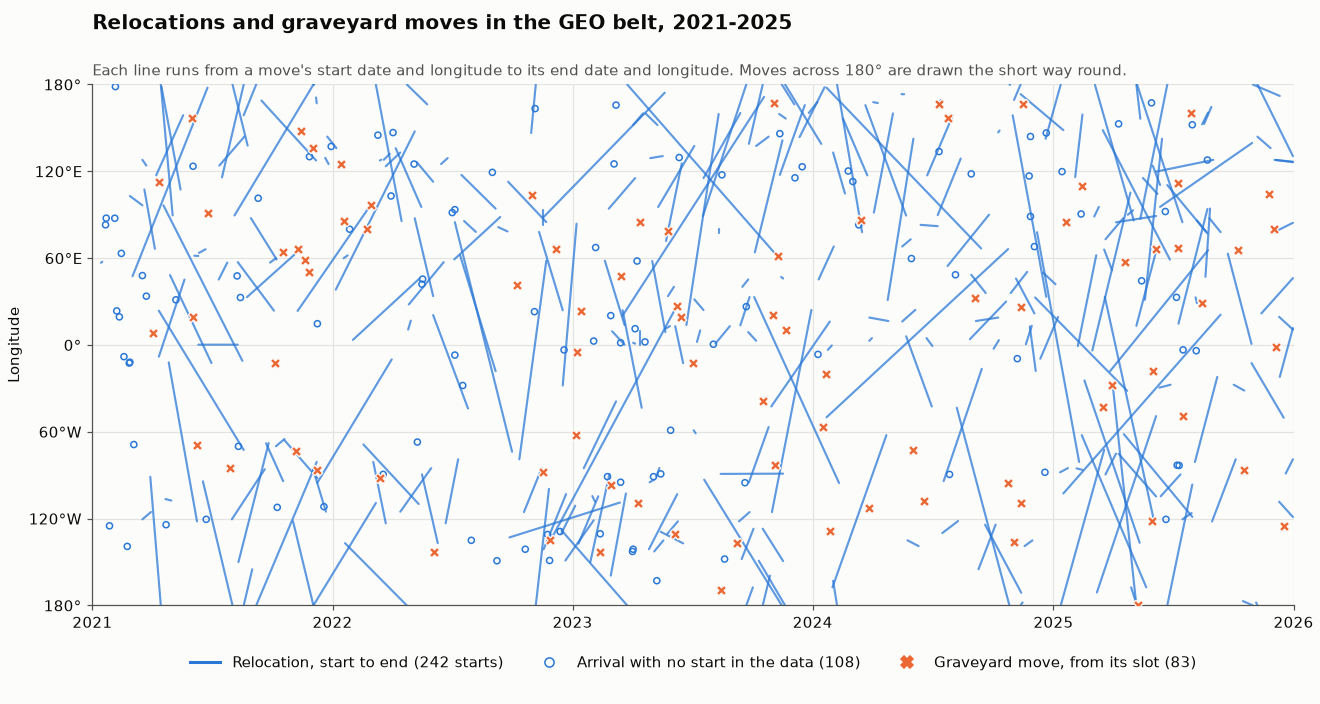
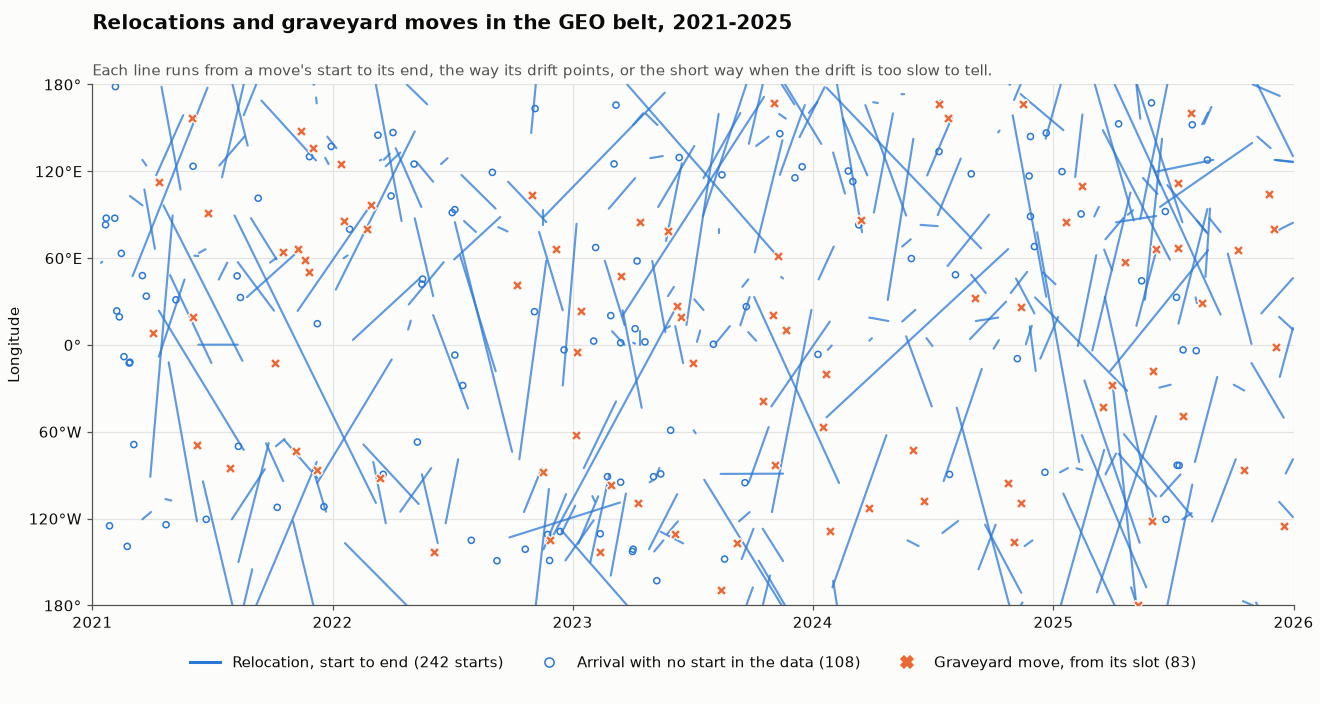
Draw relocations the way they drift: three long-way moves now go the right way round
The relocation chart drew every move the short way between its end longitudes. A move goes the
long way now when the drift rate implied by its start's size points that way and covers more than
180 degrees over the move; otherwise it stays the short way, so a size sign skewed by a later drift
cannot flip a short move. This changes 27632 (both moves) and 41937 (2025).

Fixes #77

Changed region(s): [[0.2795, 0.0938, 0.8386, 0.125]]

diff --git a/tests/test_relocation_chart.py b/tests/test_relocation_chart.py
@@ -8,26 +8,42 @@ chart = importlib.util.module_from_spec(_spec)
 _spec.loader.exec_module(chart)
 
 
-def row(norad, kind, day, lon_before, lon_after):
-    return {"norad_id": norad, "event_type": kind, "date": day, "lon_before": lon_before, "lon_after": lon_after}
+def row(norad, kind, day, lon_before, lon_after, size="0.0"):
+    return {"norad_id": norad, "event_type": kind, "date": day, "lon_before": lon_before, "lon_after": lon_after,
+            "size": size}
 
 
 def test_a_move_inside_the_chart_is_one_line():
-    assert chart.pieces(date(2022, 1, 1), 10.0, date(2022, 1, 11), 20.0) == [
+    assert chart.pieces(date(2022, 1, 1), 10.0, date(2022, 1, 11), 10.0) == [
         ((date(2022, 1, 1), date(2022, 1, 11)), (10.0, 20.0))]
 
 
-def test_a_move_across_180_is_split_at_the_edge_and_goes_the_short_way():
-    (first, second) = chart.pieces(date(2022, 1, 1), 170.0, date(2022, 1, 21), -170.0)
+def test_a_move_across_180_is_split_at_the_edge():
+    (first, second) = chart.pieces(date(2022, 1, 1), 170.0, date(2022, 1, 21), 20.0)
     assert first == ((date(2022, 1, 1), date(2022, 1, 11)), (170.0, 180.0))
     assert second == ((date(2022, 1, 11), date(2022, 1, 21)), (-180.0, -170.0))
-    (first, second) = chart.pieces(date(2022, 1, 1), -175.0, date(2022, 1, 11), 175.0)
+    (first, second) = chart.pieces(date(2022, 1, 1), -175.0, date(2022, 1, 11), -10.0)
     assert first[1] == (-175.0, -180.0) and second[1] == (180.0, 175.0)
+    (first, second) = chart.pieces(date(2022, 1, 1), -100.0, date(2022, 8, 29), -240.0)
+    assert first == ((date(2022, 1, 1), date(2022, 3, 22)), (-100.0, -180.0))
+    assert second == ((date(2022, 3, 22), date(2022, 8, 29)), (180.0, 20.0))
+
+
+def test_a_move_goes_the_way_its_drift_points_when_the_drift_covers_more_than_half_the_belt():
+    assert round(chart.arc(89.5, -109.2, 73.6, 215), 6) == -198.7
+    assert round(chart.arc(-91.1, 89.5, -591.0, 34), 6) == 180.6
+    assert round(chart.arc(-102.6, 20.9, 79.7, 239), 6) == -236.5
+
+
+def test_a_drift_too_slow_to_reach_the_long_way_keeps_the_short_way():
+    assert round(chart.arc(119.4, 127.5, 4.5, 87), 6) == 8.1
+    assert chart.arc(10.0, 30.0, 0.0, 20) == 20.0
+    assert round(chart.arc(89.5, -109.2, -73.6, 215), 6) == 161.3
 
 
 def test_moves_pair_starts_with_ends_and_keep_unpaired_starts_and_arrivals():
     rows = [
-        row("1", "relocation_start", "2022-01-01", "10.0", "30.0"),
+        row("1", "relocation_start", "2022-01-01", "10.0", "30.0", "-80.0"),
         row("1", "relocation_end", "2022-01-21", "28.0", "30.0"),
         row("2", "relocation_end", "2023-05-01", "", "-60.0"),
         row("3", "relocation_start", "2022-06-01", "100.0", "140.0"),
@@ -42,3 +58,12 @@ def test_moves_pair_starts_with_ends_and_keep_unpaired_starts_and_arrivals():
     ]
     assert arrivals == [(date(2023, 5, 1), -60.0)]
     assert graveyards == [(date(2022, 9, 1), 120.0)]
+
+
+def test_moves_draw_a_westward_drift_the_long_way():
+    rows = [
+        row("5", "relocation_start", "2021-08-05", "90.0", "-110.0", "73.6"),
+        row("5", "relocation_end", "2022-03-08", "-108.0", "-110.0"),
+    ]
+    segments, _, _ = chart.moves(rows)
+    assert segments == [((date(2021, 8, 5), date(2022, 3, 8)), (90.0, -110.0))]

diff --git a/tools/relocation_chart.py b/tools/relocation_chart.py
@@ -1,6 +1,6 @@
 # Draw every relocation and graveyard move in the belt's state-change list as date against longitude.
-# A move is a line from its start to its end; one that crosses 180 deg is drawn the short way round,
-# split at the chart edge.
+# A move is a line from its start to its end, drawn the way its start's drift rate points when that
+# rate covers more than half the belt over the move, otherwise the short way; split at the chart edge.
 
 from __future__ import annotations
 
@@ -22,14 +22,22 @@ OUT = ROOT / "docs" / "belt_relocations.png"
 DATA_END = date(2025, 12, 31)
 SURFACE, INK, MUTED, GRID = "#fcfcfb", "#0b0b0b", "#52514e", "#e4e3df"
 MOVE, GRAVEYARD = "#2a78d6", "#eb6834"
+DRIFT_DEG_PER_DAY_PER_KM = 1.5 * 360.9856 / 42164.17
 
 
 def wrap180(x: float) -> float:
     return (x + 180.0) % 360.0 - 180.0
 
 
-def pieces(d0: date, lon0: float, d1: date, lon1: float) -> list[tuple[tuple[date, date], tuple[float, float]]]:
-    delta = wrap180(lon1 - lon0)
+def arc(lon0: float, lon1: float, size_km: float, days: int) -> float:
+    short = wrap180(lon1 - lon0)
+    drift = -DRIFT_DEG_PER_DAY_PER_KM * size_km
+    if drift * short < 0 and abs(drift) * days > 180.0:
+        return short - 360.0 if short > 0 else short + 360.0
+    return short
+
+
+def pieces(d0: date, lon0: float, d1: date, delta: float) -> list[tuple[tuple[date, date], tuple[float, float]]]:
     end = lon0 + delta
     if -180.0 <= end <= 180.0:
         return [((d0, d1), (lon0, end))]
@@ -74,7 +82,7 @@ def moves(rows: list[dict]) -> tuple[list, list, list]:
         else:
             d1 = date.fromisoformat(end["date"])
             lon1 = float(end["lon_after"] if end["event_type"] == "relocation_end" else end["lon_before"])
-        segments.extend(pieces(d0, lon0, d1, lon1))
+        segments.extend(pieces(d0, lon0, d1, arc(lon0, lon1, float(start["size"]), (d1 - d0).days)))
     return segments, arrivals, graveyards
 
 
@@ -116,8 +124,8 @@ def draw(rows: list[dict], out: Path) -> tuple[int, int, int]:
               labelcolor=INK)
     fig.suptitle("Relocations and graveyard moves in the GEO belt, 2021-2025", x=0.07, ha="left",
                  color=INK, fontsize=13, fontweight="bold")
-    ax.set_title("Each line runs from a move's start date and longitude to its end date and longitude. "
-                 "Moves across 180° are drawn the short way round.", loc="left", color=MUTED, fontsize=9.5)
+    ax.set_title("Each line runs from a move's start to its end, the way its drift points, or the short way "
+                 "when the drift is too slow to tell.", loc="left", color=MUTED, fontsize=9.5)
     fig.subplots_adjust(left=0.07, right=0.98, top=0.88, bottom=0.14)
     out.parent.mkdir(parents=True, exist_ok=True)
     fig.savefig(out, facecolor=SURFACE)

diff --git a/README.md b/README.md
@@ -6,8 +6,9 @@ built only from public orbital elements.
 ![Relocations and graveyard moves in the GEO belt, 2021-2025](docs/belt_relocations.png)
 
 Each line is one relocation from the list, drawn from its start date and longitude to its end date
-and longitude, the short way round; crosses mark graveyard moves where the climb starts. Redraw
-it with `python tools/relocation_chart.py`.
+and longitude. It goes the long way round when the drift rate implied by the start's `size` points
+that way and would cover more than 180° over the move; otherwise it goes the short way. Crosses
+mark graveyard moves where the climb starts. Redraw it with `python tools/relocation_chart.py`.
 
 ## What it does
 
